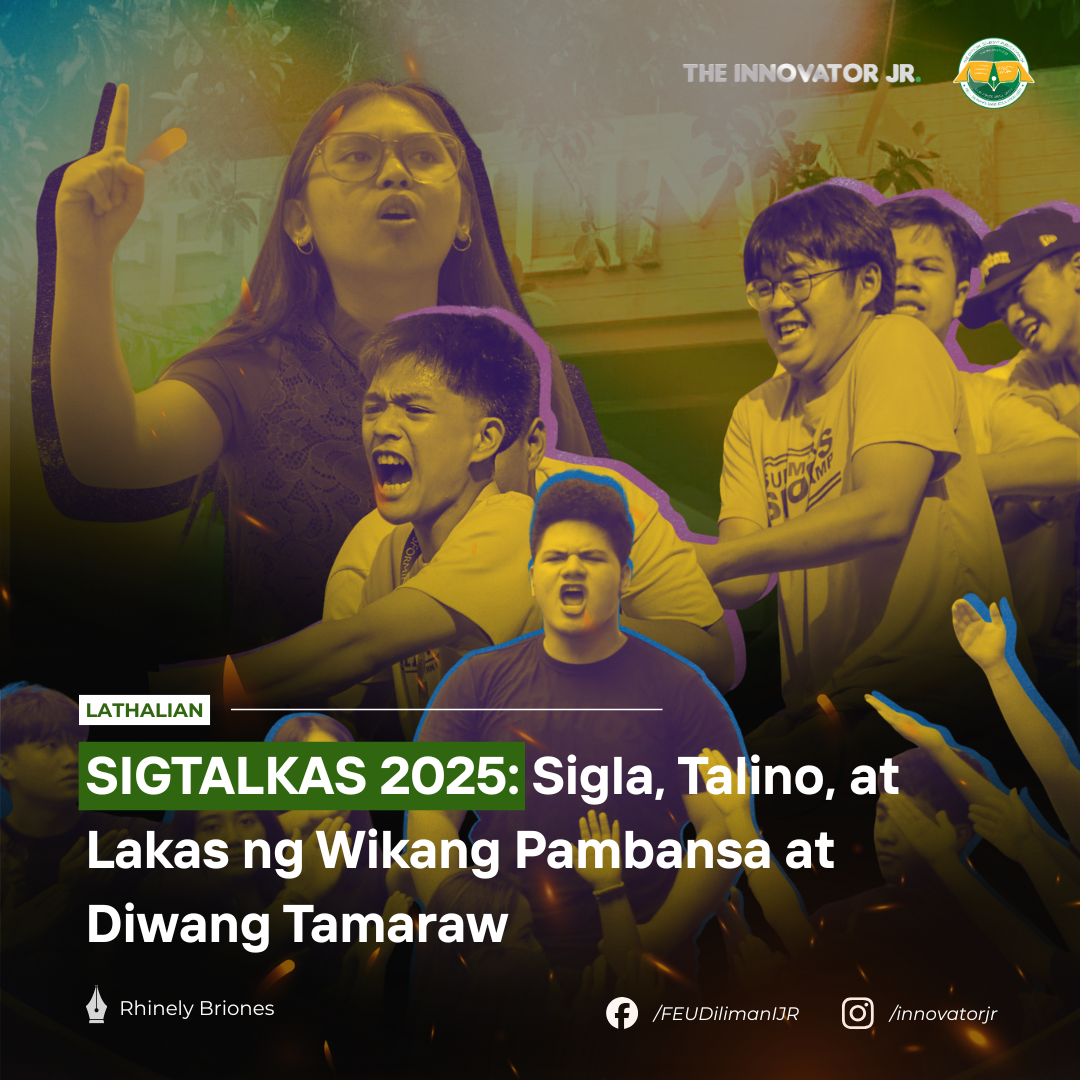
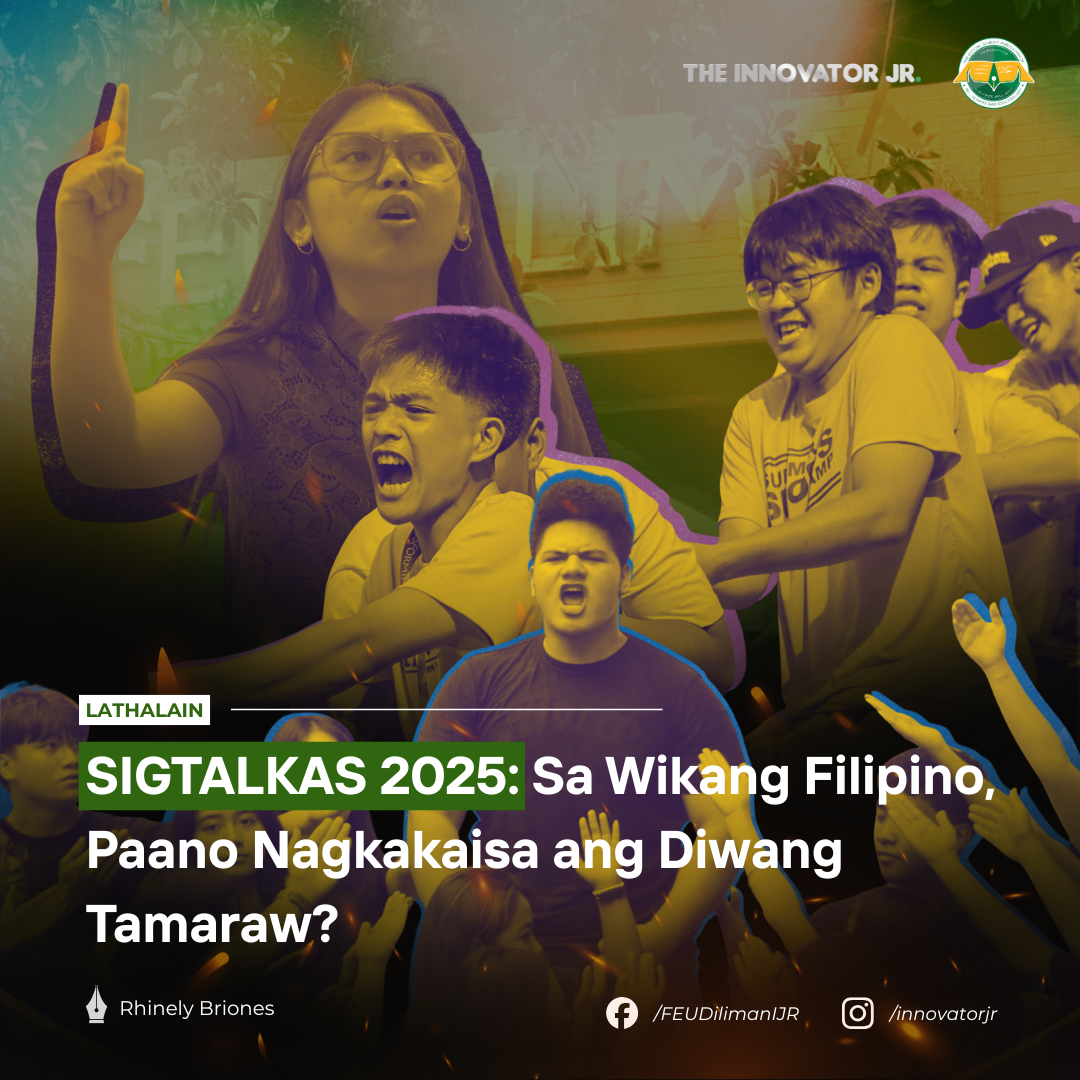
new

diff --git a/js/articles.js b/js/articles.js
@@ -29,9 +29,9 @@ const articles = [
 },
 {
    id: 78,
-   title: "SIGTALKAS 2025: Bakit Mahalaga ang Wikang Pambansa sa Bawat Tamaraw?",
+   title: "SIGTALKAS 2025: Sa Wikang Filipino, Paano Nagkakaisa ang Diwang Tamaraw?",
    date: "2025-11-5",
-   image: "public/78_Sigtalkas.jpg",
+   image: "public/78_Feature.png",
    gfx: "Publication Material ni Jade Visperas",
    tags: ["Feature"],
    author: "ni Rhinely Briones",
